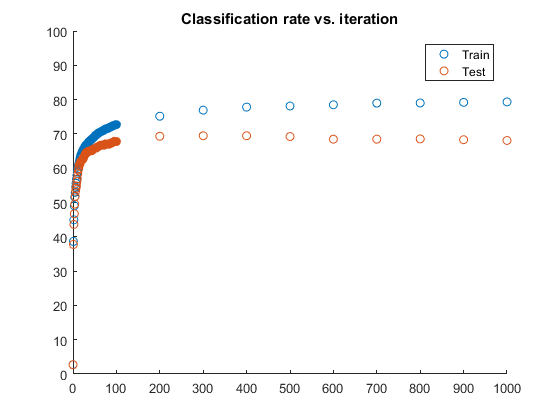
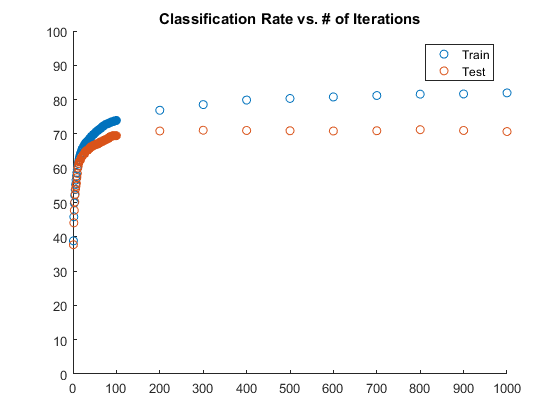
s

diff --git a/p2/TrainSetSizeTest.m b/p2/TrainSetSizeTest.m
@@ -14,7 +14,7 @@ MAX_TRAIN_SIZE = TRAINSET_COUNTS(C);   % Test set size
 MAX_TEST_SIZE = 50;     % Test set size
 DATA_ROW = 16;          % Data dimension Row
 DATA_COLUMN = 8;        % Data dimension Column
-DIMENSION = DATA_ROW * DATA_COLUMN;   % Data dimension
+DIMENSION = 1 + DATA_ROW * DATA_COLUMN;   % Data dimension. + a prepend 1
 NOISE_MAGNITUDE = 0;  % The var. of noise to add when reading samples
 
 % Let half of the data be the training set
@@ -97,4 +97,4 @@ hold on;
 scatter(TRAINSET_COUNTS, corretPTest);
 axis([0, 200, 0, 100]);
 legend('Train','Test');
-title('Classification rate vs. # of training samples');
+title('Classification Rate vs. # of Training Samples');

diff --git a/p2/LinearSoftmaxRegression.m b/p2/LinearSoftmaxRegression.m
@@ -1,11 +1,9 @@
 % Learning
-
 MAX_ITERATION = 200;
 MIN_GRADIENT_DIFF_PERCENTAGE = 0.001;
 LAMBDA = 0.0005;
 theta = 0.0005 * randn(DIMENSION, MAX_CLASS);
 
-lastG = 0;
 g = 0;
 for i = 1 : MAX_ITERATION
     [L, g] = gradientDescent(TrainSet, theta); 
@@ -13,7 +11,7 @@ for i = 1 : MAX_ITERATION
     %disp(mean(mean(abs(g))));
 end
 
-disp(sprintf('Iterations: %d Final cost: %.2f', i, L));
+disp(sprintf('Iterations: %d Final loss: %.2f', i, L));
 
 
 

diff --git a/p2/Init_Read.m b/p2/Init_Read.m
@@ -10,7 +10,7 @@ MAX_TRAIN_SIZE = 200;   % Test set size
 MAX_TEST_SIZE = 50;     % Test set size
 DATA_ROW = 16;          % Data dimension Row
 DATA_COLUMN = 8;        % Data dimension Column
-DIMENSION = DATA_ROW * DATA_COLUMN;   % Data dimension
+DIMENSION = 1 + DATA_ROW * DATA_COLUMN;   % Data dimension. + a prepend 1
 NOISE_MAGNITUDE = 0;  % The var. of noise to add when reading samples
 
 % Let half of the data be the training set

diff --git a/p2/IterationTest.m b/p2/IterationTest.m
@@ -1,5 +1,5 @@
 
-ITERATION_COUNTS = [0:1:99 100:100:1000];
+ITERATION_COUNTS = [1:1:99 100:100:1000];
 corretPTrain = zeros(size(ITERATION_COUNTS));
 corretPTest = zeros(size(ITERATION_COUNTS));
 
@@ -66,4 +66,4 @@ hold on;
 scatter(ITERATION_COUNTS, corretPTest);
 axis([0, 1000, 0, 100]);
 legend('Train','Test');
-title('Classification rate vs. # of iterations');
+title('Classification Rate vs. # of Iterations');

diff --git a/p2/readSets.m b/p2/readSets.m
@@ -59,4 +59,5 @@ function data = readOneLine(fid, NOISE_MAGNITUDE)
 	% The bottom limit is due to the need of evaluate ln(x)
     data(data>1) = 1;		
     data(data<=0) = 0.001;
+    data = cat(2, [1], data);
 end
